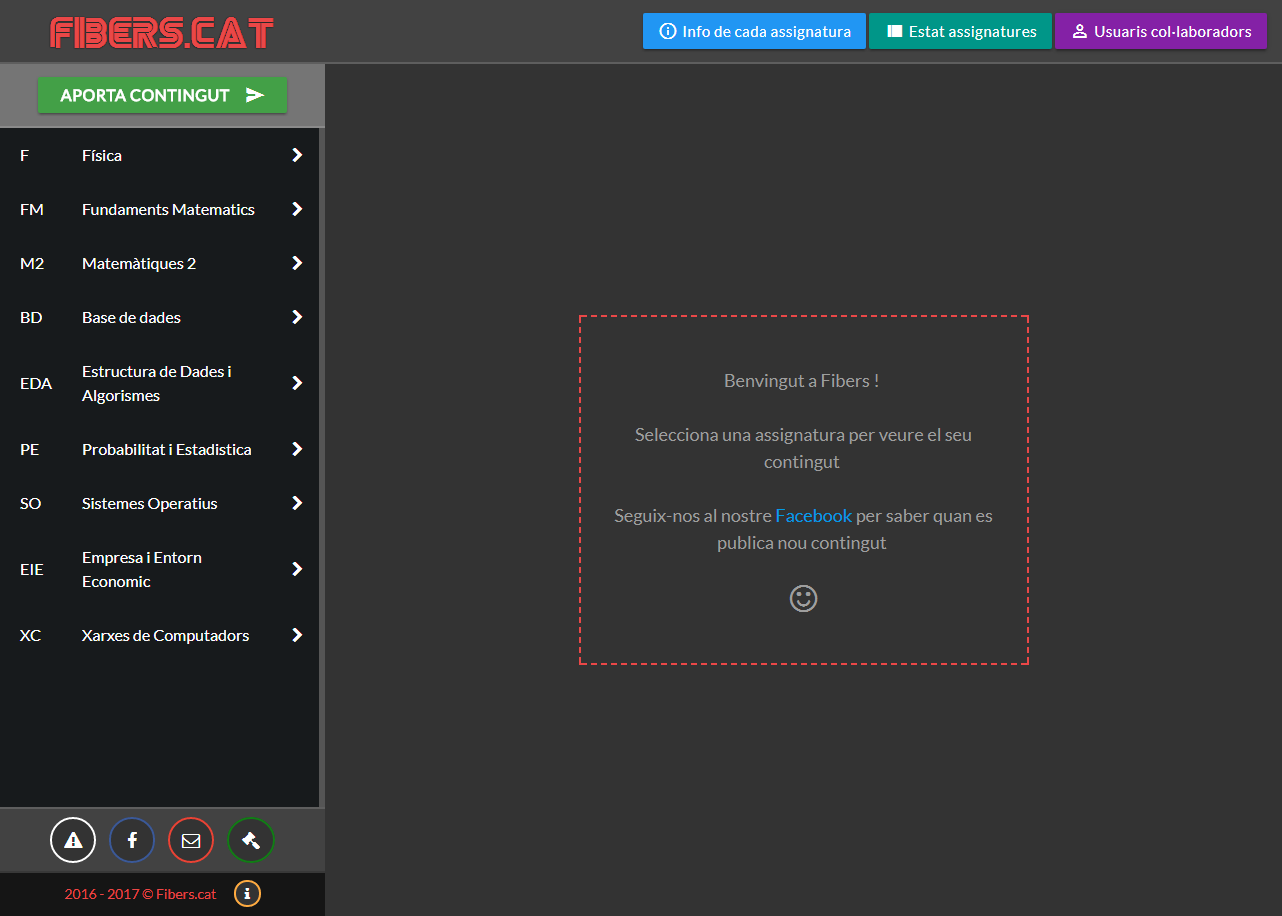
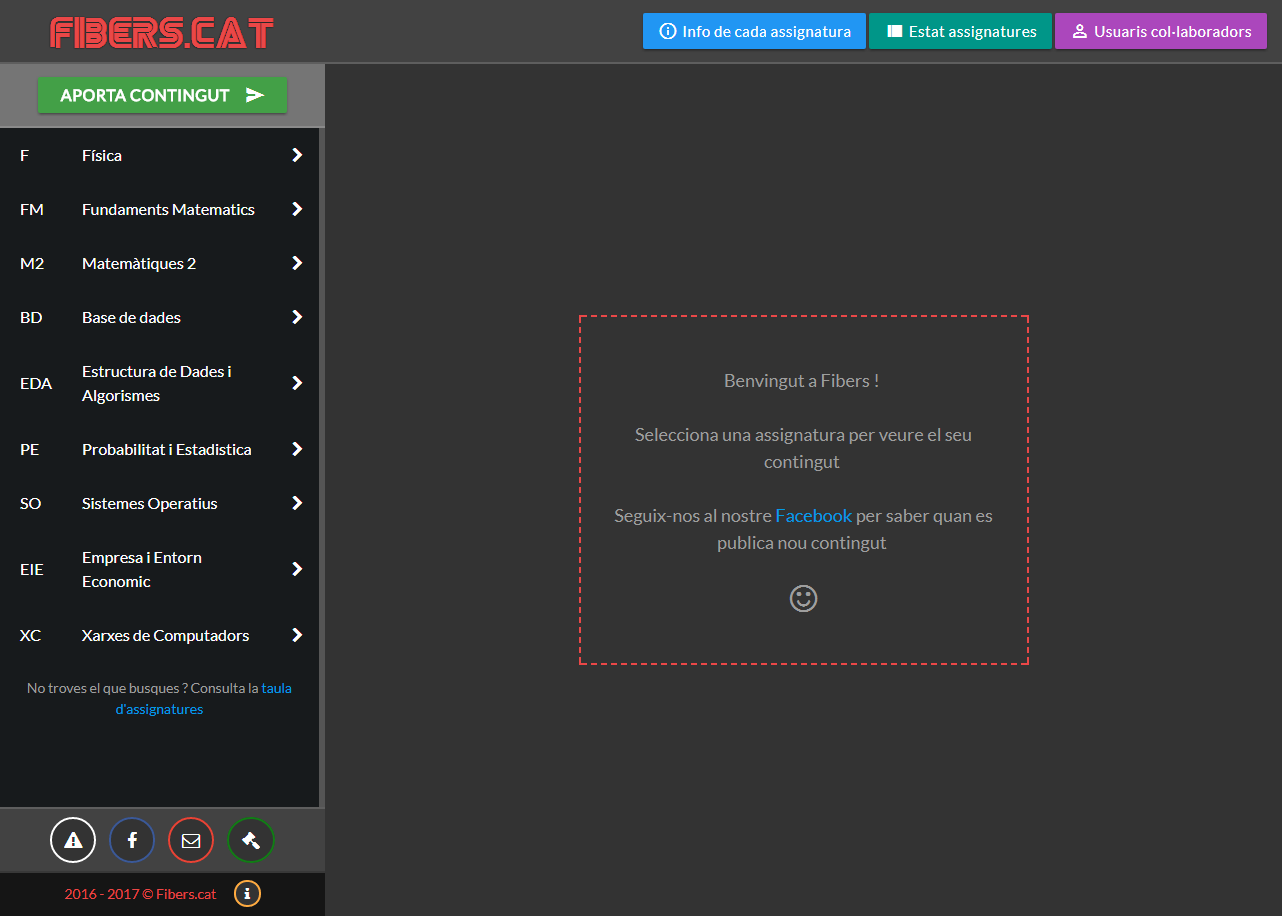
update

Changed region(s): [[0.8112, 0.0, 0.9984, 0.0611], [0.0312, 0.7336, 0.2184, 0.7948]]

diff --git a/assets/css/styles.css b/assets/css/styles.css
@@ -74,6 +74,7 @@ body {
 h6 {
   color: #ea4747;
   font-weight: bold;
+  font-size: 16px;
 }
 
 h4::before {
@@ -162,11 +163,17 @@ h5::after {
 
 .btn-usuaris {
   padding: 0 1rem;
-  background-color: #7b1fa2;
+  background-color: #ab47bc ;
 }
 
 .btn-usuaris:hover, .btn-usuaris:active, .btn-usuaris:focus {
-  background-color: #8e24aa;
+  background-color: #ba68c8 ;
+}
+
+.nav-extra {
+  padding: 15px 15px;
+  color: #9e9e9e;
+  text-align: center;
 }
 
 .nav-box {

diff --git a/views/layouts/_leftNavBar.php b/views/layouts/_leftNavBar.php
@@ -67,6 +67,9 @@
         </tr>
       </tbody>
     </table>
+    <div class="nav-extra">
+      No troves el que busques ? Consulta la <a href="assignatures.php">taula d'assignatures</a>
+    </div>
   </div>
 
   <footer>
